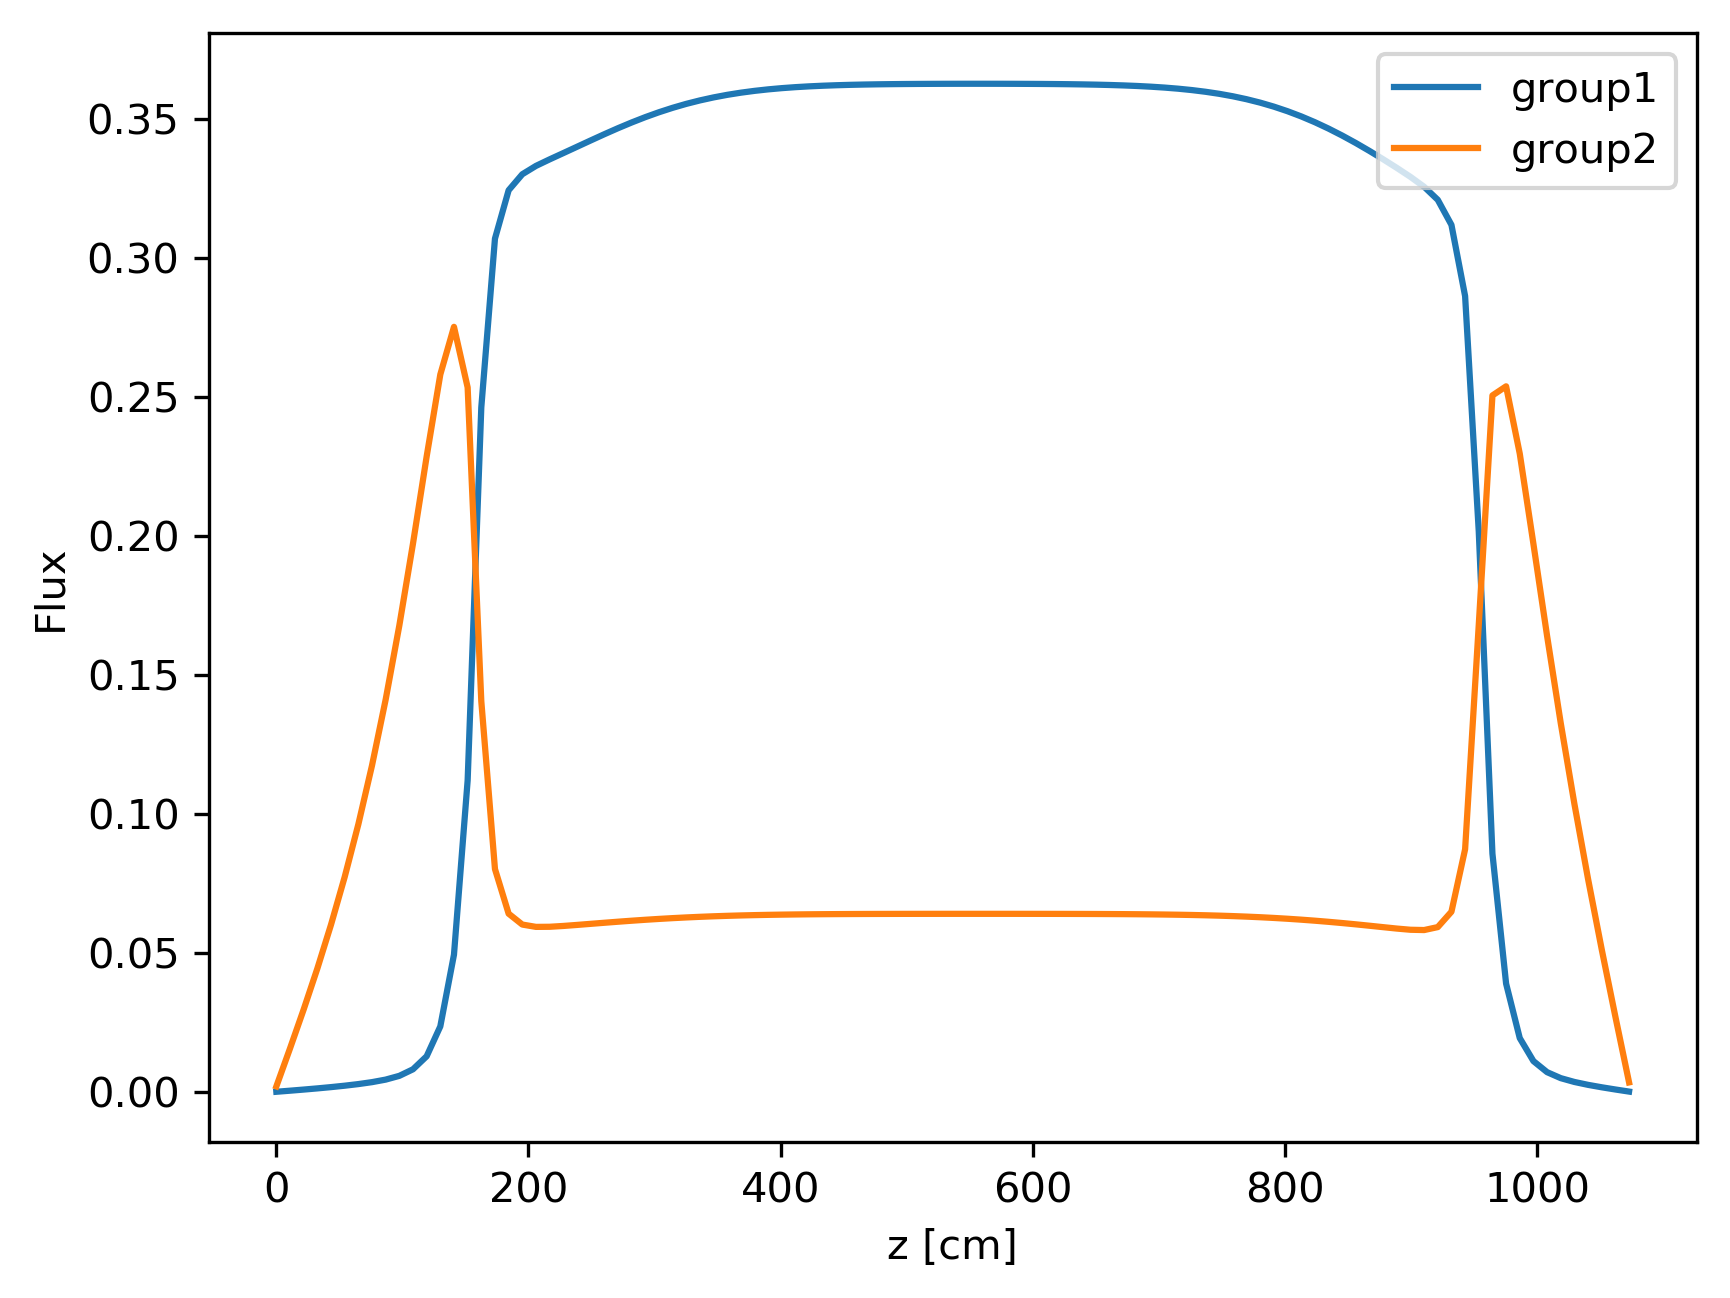
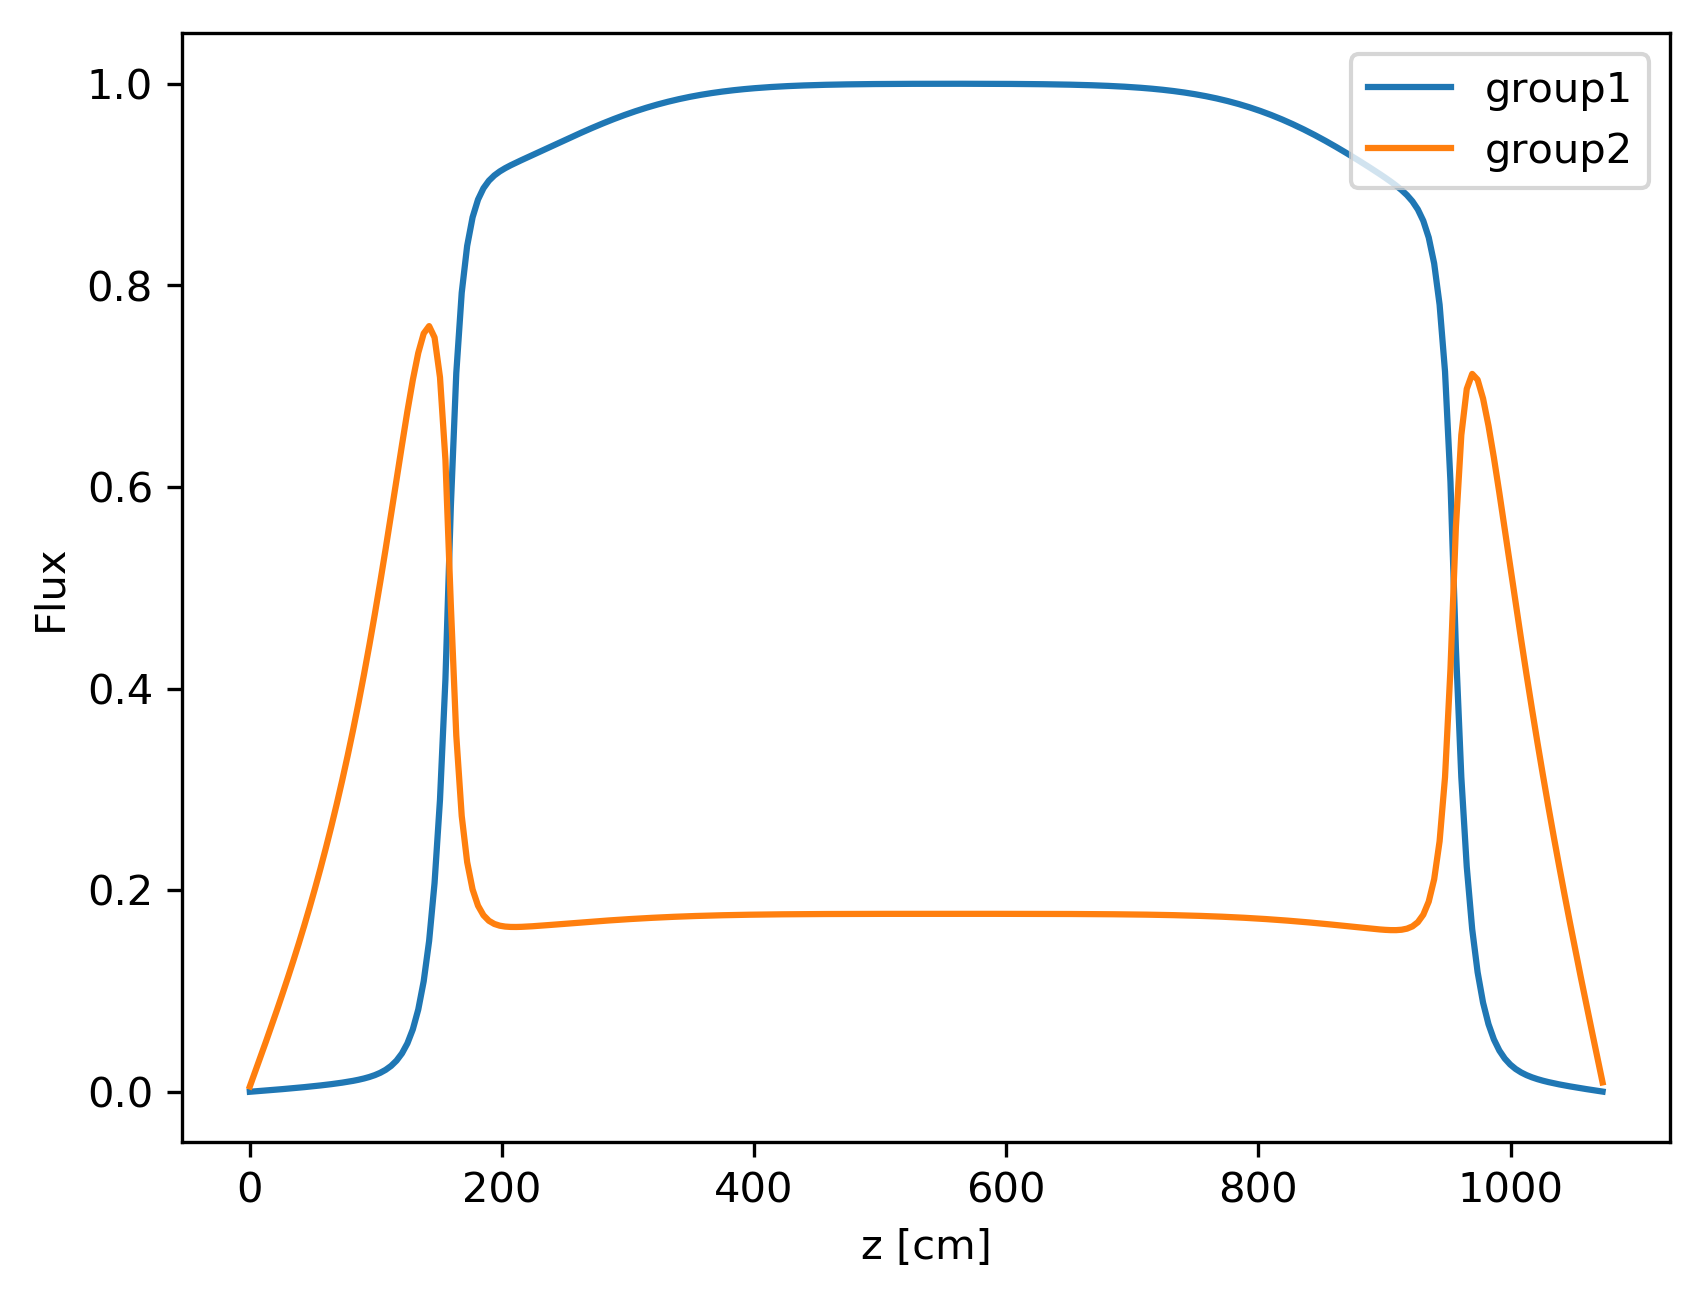
divide flux by group 1 flux max value

diff --git a/problems/mhtgr350/scripts/plotcsv.py b/problems/mhtgr350/scripts/plotcsv.py
@@ -1,3 +1,4 @@
+import numpy as np
 import pandas as pd
 import matplotlib.pyplot as plt
 
@@ -25,6 +26,26 @@ def plotcsv_fromparaview(file, save):
     plt.savefig(save, dpi=300, bbox_inches="tight")
 
 
+def plotcsv_fromparaview2(file, save):
+    '''
+        Moltres output is an exodus file.
+        Paraview reads exodus file.
+        Paraview exports values to csv.
+        This function plots those values.
+    '''
+    file = pd.read_csv(file)
+
+    x = file['Points:1'].tolist()
+    temp = file['temp'].tolist()
+
+    plt.figure()
+    plt.plot(x, temp)
+    plt.ylabel('Temperature')
+    plt.xlabel('z [cm]')
+    # plt.title('Steady-state flux')
+    plt.savefig(save, dpi=300, bbox_inches="tight")
+
+
 def plotcsv_frommoose(file, save):
     '''
         Moltres output is a csv file.
@@ -33,8 +54,12 @@ def plotcsv_frommoose(file, save):
     file = pd.read_csv(file)
 
     x = file['y'].tolist()
-    group1 = file['group1'].tolist()
-    group2 = file['group2'].tolist()
+    group1 = np.array(file['group1'].tolist())
+    group2 = np.array(file['group2'].tolist())
+
+    M = max(group1)
+    group1 /= M
+    group2 /= M
 
     plt.figure()
     plt.plot(x, group1, label='group1')
@@ -46,9 +71,32 @@ def plotcsv_frommoose(file, save):
     plt.savefig(save, dpi=300, bbox_inches="tight")
 
 
+def plotcsv_frommoose2(file, save):
+    '''
+        Moltres output is a csv file.
+        This function plots those values.
+    '''
+    file = pd.read_csv(file)
+
+    x = file['y'].tolist()
+    temp = file['temp'].tolist()
+
+    plt.figure()
+    plt.plot(x, temp)
+    plt.ylabel('Temperature')
+    plt.xlabel('z [cm]')
+    # plt.title('Steady-state flux')
+    plt.savefig(save, dpi=300, bbox_inches="tight")
+
+
 file = '../1D-neutronics/1D-fuel-reflec-eig1-frompara.csv'
 save = '../1D-neutronics/1D-fuel-reflec-eig1_frompara'
-# plotcsv_fromparaview(file, save):
+# plotcsv_fromparaview(file, save)
 file = '../1D-neutronics/1D-fuel-reflec-eig1_tocsv_0001.csv'
-save = '../1D-neutronics/1D-fuel-reflec-eig1B'
+save = '../1D-neutronics/1D-fuel-reflec-eig1C'
 plotcsv_frommoose(file, save)
+# file = '../try2_frompara.csv'
+file = '../try2_tocsv_0001.csv'
+save = '../try2'
+# plotcsv_fromparaview2(file, save)
+# plotcsv_frommoose2(file, save)

diff --git a/problems/mhtgr350/README.md b/problems/mhtgr350/README.md
@@ -23,7 +23,7 @@
 
 * 1D-fuel-reflec.i
 	- 1D-fuel-reflecA.msh: 265 elements
-	- 1D-fuel-reflecB.msh: 1070 elements
+	- 1D-fuel-reflecB.msh: 1070 elements (this mesh can be deleted eventually)
 	- Transient problem.
 
 * 1D-fuel-refleci-eig1.i
@@ -146,7 +146,7 @@ scripts/
 	- adds legengs to figures of the geometries
 
 * plotcsv.py
-	- paraview reades exodus, exports values to csv, plots those values
+	- paraview reads exodus, exports values to csv, plots those values
 	- moose output to csv, plots those values
 
 * plotexodus.py
@@ -220,12 +220,7 @@ thermo-hydraulics/
 
 Things to look into: Neutronics
 -------------------------------
-- Compare reults if I use precursors and delayed neutrons and if I don't ...
-- Eigenvalue calculation fails when I have the reflector
-- Transient calculation gives garbage when I have the coolant:
-	* Homogenize the cross section in the fuel.
-	* Meshe shouldn't change
-	* Definition of materials in moltres input file will change, different materials will have same XS.
+- I am not sure the eigenvalue calculations are correct
 
 Things to look into: Thermo-hydraulics
 --------------------------------------
@@ -329,6 +324,7 @@ How to define periodic BCs:
 
 How to make side sets from nodal sets (points in gmsh):
 -------------------------------------------------------
+(This version is deprecated and will be removed)
 [MeshModifiers]
   [./add_side_sets]
     type = SideSetsFromPoints
@@ -337,6 +333,24 @@ How to make side sets from nodal sets (points in gmsh):
     new_boundary = 'fuel_bot fuel_top'
   [../]
 []
+
+How to make side sets from nodal sets (points in gmsh):
+-------------------------------------------------------
+(This is the best way to do it)
+[Mesh]
+  [mymesh]
+    type = FileMeshGenerator
+    file = '1D-fuel-reflecA.msh'
+  [../]
+
+  [./add_side_sets]
+    type = SideSetsFromPointsGenerator
+    input = mymesh
+    points = '0    0  0
+              0  1073  0'
+    new_boundary = 'ref_bot ref_top'
+  [../]
+[../]
 
 How to export to the csv the values of a variable over a line:
 --------------------------------------------------------------
